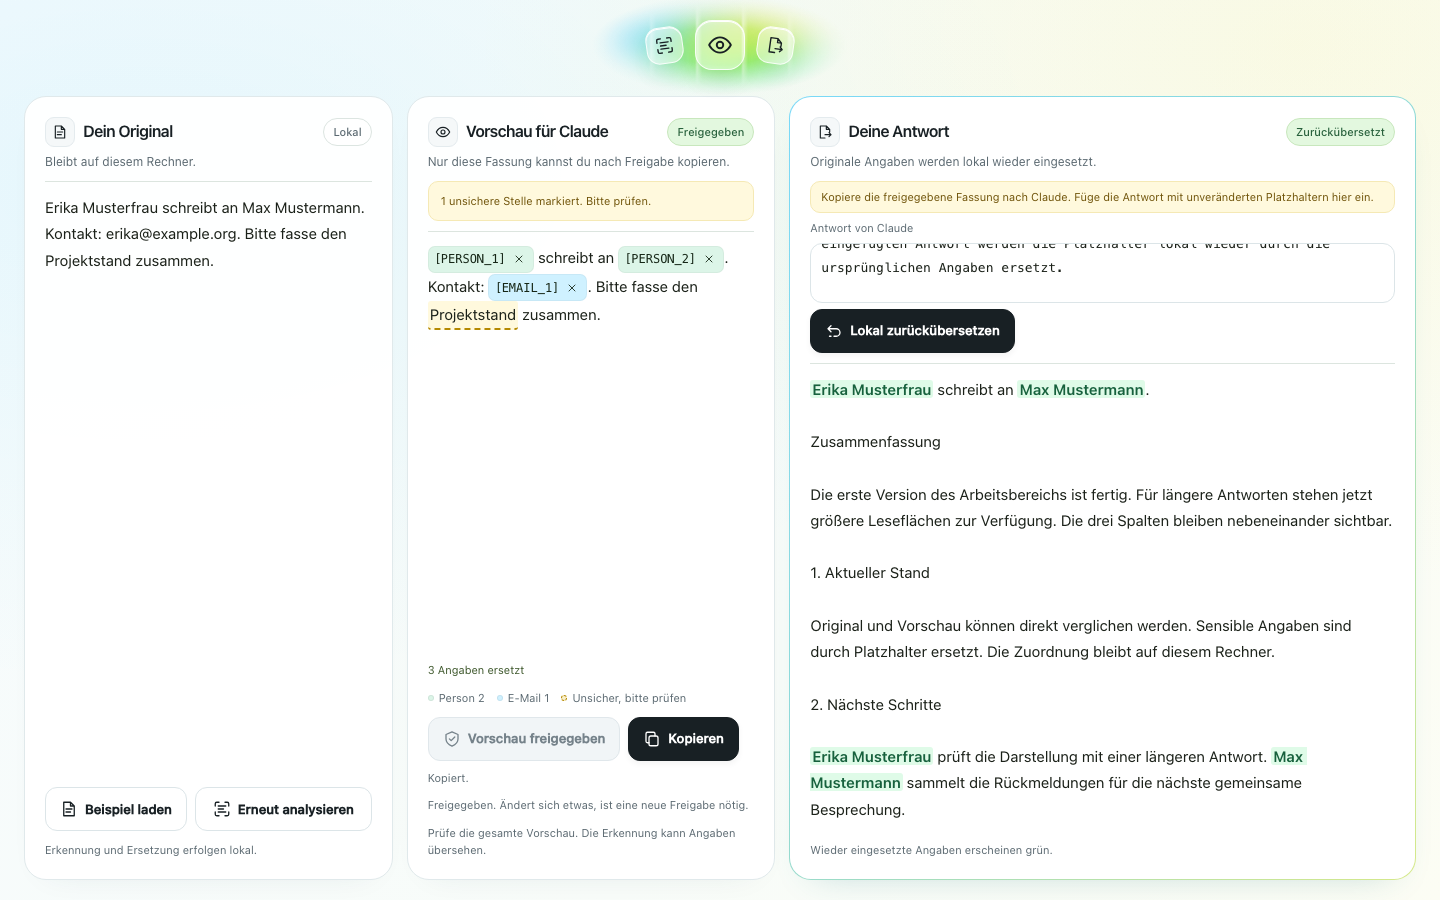
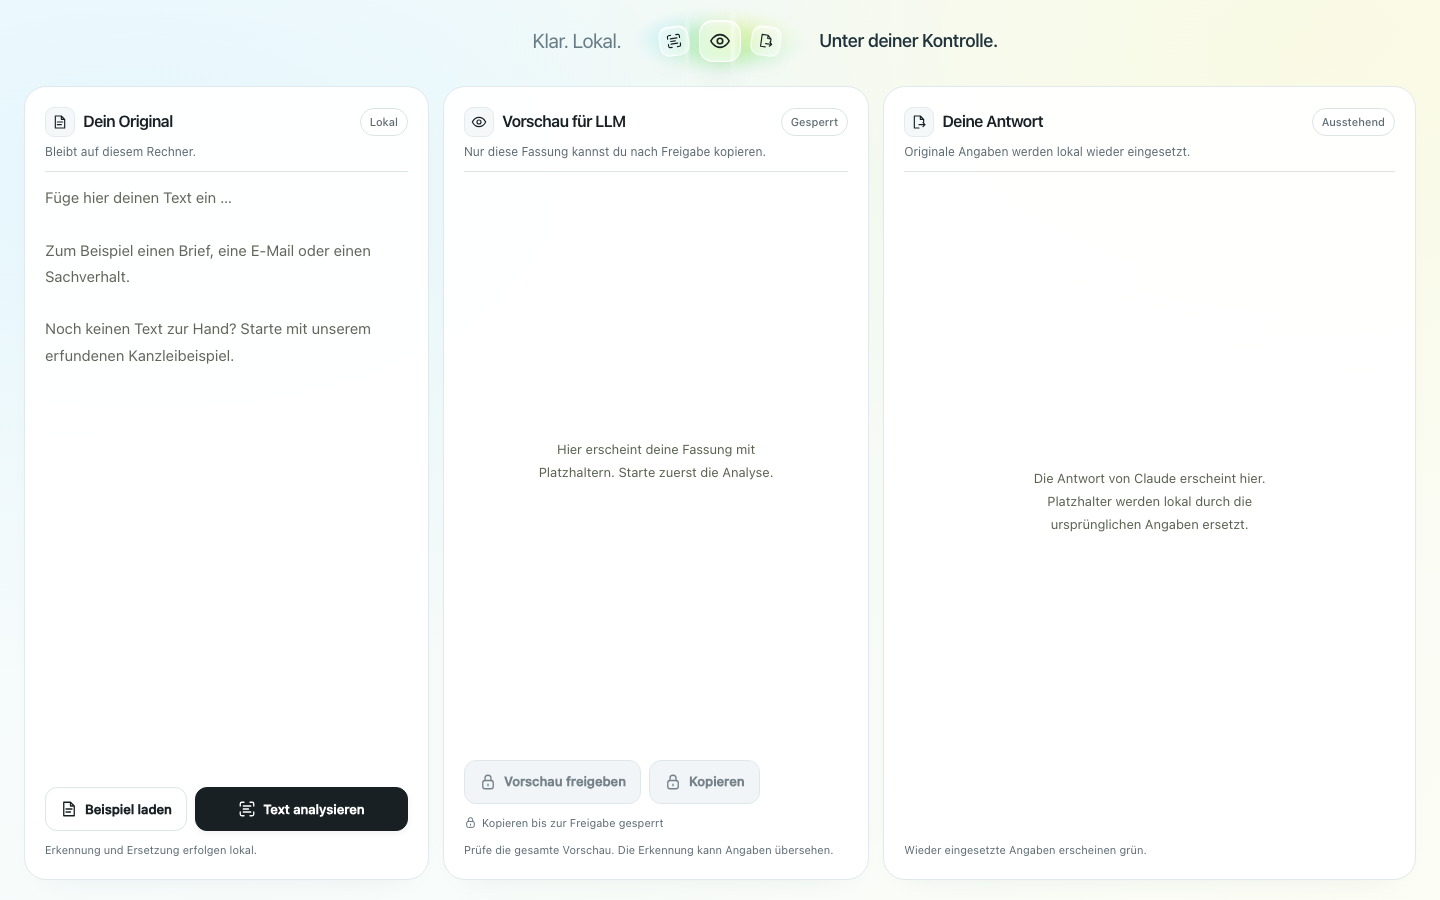
Apply approved frameless slogan and generalize LLM preview heading (#31)
* Record approved header work in team project status

* Add approved frameless slogan and general LLM preview heading

---------

diff --git a/web/static/index.html b/web/static/index.html
@@ -19,17 +19,19 @@
   .pane:focus-visible { outline: 3px solid #0076a9; outline-offset: -3px; }
   #fakeBand { background: #fff8d7; color: #70540a; font-size: 12px; font-weight: 600; text-align: center; padding: 6px 18px; border-bottom: 1px solid #f4e9b4; }
   .workspace { margin: 0 auto; padding: 10px 24px 20px; width: 100%; }
-  .intro { display: flex; justify-content: center; flex: none; padding: 0 0 16px; }
+  .intro { display: flex; align-items: center; justify-content: center; gap: 24px; flex: none; min-height: 76px; padding: 0 0 14px; }
+  .slogan { width: 190px; margin: 0; color: #20323b; font-size: 18px; font-weight: 550; letter-spacing: -.4px; }
+  .slogan-lead { text-align: right; color: #687c86; font-size: 20px; font-weight: 400; }
   .sr-only { position: absolute; width: 1px; height: 1px; padding: 0; margin: -1px; overflow: hidden; clip-path: inset(50%); white-space: nowrap; }
-  .hero-art { position: relative; isolation: isolate; display: flex; justify-content: center; align-items: center; gap: 12px; width: 220px; min-height: 70px; flex-shrink: 0; }
-  .hero-art::before { content: ""; z-index: -2; position: absolute; inset: -15px -18px; background: radial-gradient(ellipse at 68% 30%,#ffe53b99,transparent 45%), radial-gradient(ellipse at 52% 55%,#c6ff3d,transparent 53%), radial-gradient(ellipse at 25% 40%,#00b8ffb3,transparent 55%), radial-gradient(ellipse at 60% 70%,#2be0a0,transparent 60%); filter: blur(15px); mask-image: radial-gradient(ellipse closest-side,#000 40%,transparent); }
+  .hero-art { position: relative; isolation: isolate; display: flex; justify-content: center; align-items: center; gap: 10px; width: 150px; min-height: 54px; flex-shrink: 0; }
+  .hero-art::before { content: ""; z-index: -2; position: absolute; inset: -8px -15px; opacity: .5; background: radial-gradient(ellipse at 68% 30%,#ffe53b99,transparent 45%), radial-gradient(ellipse at 52% 55%,#c6ff3d,transparent 53%), radial-gradient(ellipse at 25% 40%,#00b8ffb3,transparent 55%), radial-gradient(ellipse at 60% 70%,#2be0a0,transparent 60%); filter: blur(15px); mask-image: radial-gradient(ellipse closest-side,#000 40%,transparent); }
   .hero-art::after { content: ""; z-index: -1; position: absolute; inset: -8px 0; background: repeating-linear-gradient(90deg,#fff0 0 39px,#ffffff78 41px,#fff0 46px); mask-image: radial-gradient(ellipse closest-side,#000 55%,transparent); }
   .art-icon { position: relative; z-index: 1; display: grid; place-items: center; background: #ffffff6e; border: 1px solid #ffffffd9; box-shadow: 0 14px 28px -10px #26534e30,inset 0 1px #fff; }
-  .art-icon.small { width: 37px; height: 37px; border-radius: 13px; transform: rotate(-8deg); }
-  .art-icon.large { width: 50px; height: 50px; border-radius: 17px; }
+  .art-icon.small { width: 30px; height: 30px; border-radius: 10px; transform: rotate(-8deg); }
+  .art-icon.large { width: 42px; height: 42px; border-radius: 14px; }
   .art-icon:nth-child(3) { transform: rotate(8deg); }
-  .art-icon .icon { width: 19px; height: 19px; }
-  .art-icon.large .icon { width: 26px; height: 26px; }
+  .art-icon .icon { width: 16px; height: 16px; }
+  .art-icon.large .icon { width: 22px; height: 22px; }
   main { display: grid; grid-template-columns: minmax(0,.95fr) minmax(0,1fr) minmax(0,1.25fr); align-items: stretch; gap: 14px; transition: grid-template-columns .25s cubic-bezier(.2,.7,.2,1); }
   main[data-focus="stepOriginal"] { grid-template-columns: minmax(0,1.7fr) minmax(0,1fr) minmax(0,1fr); }
   main[data-focus="stepReview"] { grid-template-columns: minmax(0,1fr) minmax(0,1.7fr) minmax(0,1fr); }
@@ -135,7 +137,7 @@
   @media (max-width: 860px) {
     .workspace { padding: 0 20px 22px; }
     .intro { padding-bottom: 12px; }
-    .hero-art { width: 190px; min-height: 60px; }
+    .hero-art { width: 150px; min-height: 54px; }
     main, main[data-focus] { grid-template-columns: minmax(0,1fr); height: auto; gap: 14px; }
     .work-card { min-height: 0; padding: 20px; }
     #original, .pane { min-height: 0; font-size: 16px; }
@@ -144,6 +146,15 @@
     #answer { min-height: 230px; max-height: 350px; }
     #answerInput { min-height: 85px; }
     #copyPanel { flex-shrink: 0; }
+  }
+  @media (max-width: 600px) {
+    .intro { min-height: 82px; gap: 6px; }
+    .slogan { width: 102px; font-size: 12px; letter-spacing: -.2px; }
+    .slogan-lead { width: 72px; font-size: 13px; }
+    .hero-art { width: 84px; gap: 5px; }
+    .art-icon.small { width: 20px; height: 20px; border-radius: 7px; }
+    .art-icon.large { width: 28px; height: 28px; border-radius: 9px; }
+    .art-icon.large .icon { width: 19px; height: 19px; }
   }
   @media (pointer: coarse) { .chip button { min-width: 44px; min-height: 44px; } }
   @media (prefers-reduced-motion: reduce) { * { transition: none !important; } }
@@ -154,11 +165,13 @@
 <div class="workspace">
   <div class="intro">
     <h1 class="sr-only">Text pseudonymisieren</h1>
+    <p class="slogan slogan-lead">Klar. Lokal.</p>
     <div class="hero-art" aria-hidden="true">
       <span class="art-icon small"><svg class="icon" aria-hidden="true" xmlns="http://www.w3.org/2000/svg" width="24" height="24" viewBox="0 0 24 24" fill="none" stroke="currentColor" stroke-width="1.75" stroke-linecap="round" stroke-linejoin="round"><path d="M8 3H5a2 2 0 0 0-2 2v3m13-5h3a2 2 0 0 1 2 2v3M3 16v3a2 2 0 0 0 2 2h3m13-5v3a2 2 0 0 1-2 2h-3M7 8h10M7 12h7M7 16h10"/></svg></span>
       <span class="art-icon large"><svg class="icon" aria-hidden="true" xmlns="http://www.w3.org/2000/svg" width="24" height="24" viewBox="0 0 24 24" fill="none" stroke="currentColor" stroke-width="1.75" stroke-linecap="round" stroke-linejoin="round"><path d="M2 12s3.5-7 10-7 10 7 10 7-3.5 7-10 7S2 12 2 12Z"/><circle cx="12" cy="12" r="3"/></svg></span>
       <span class="art-icon small"><svg class="icon" aria-hidden="true" xmlns="http://www.w3.org/2000/svg" width="24" height="24" viewBox="0 0 24 24" fill="none" stroke="currentColor" stroke-width="1.75" stroke-linecap="round" stroke-linejoin="round"><path d="M5 3h9l5 5v4M14 3v5h5M5 3v18h7m0-5h9m-3-3 3 3-3 3"/></svg></span>
     </div>
+    <p class="slogan">Unter deiner Kontrolle.</p>
   </div>
   <main id="workspace" aria-label="Dokument bearbeiten">
     <section class="work-card" data-step="stepOriginal" aria-labelledby="h-original">
@@ -172,7 +185,7 @@
       <p class="card-foot">Erkennung und Ersetzung erfolgen lokal.</p>
     </section>
     <section class="work-card review-card" data-step="stepReview" aria-labelledby="h-masked">
-      <div class="card-heading"><h2 id="h-masked"><svg class="icon" aria-hidden="true" xmlns="http://www.w3.org/2000/svg" width="24" height="24" viewBox="0 0 24 24" fill="none" stroke="currentColor" stroke-width="1.75" stroke-linecap="round" stroke-linejoin="round"><path d="M2 12s3.5-7 10-7 10 7 10 7-3.5 7-10 7S2 12 2 12Z"/><circle cx="12" cy="12" r="3"/></svg>Vorschau für Claude</h2><span id="releaseStatus" class="status-badge" role="status" aria-live="polite">Gesperrt</span></div>
+      <div class="card-heading"><h2 id="h-masked"><svg class="icon" aria-hidden="true" xmlns="http://www.w3.org/2000/svg" width="24" height="24" viewBox="0 0 24 24" fill="none" stroke="currentColor" stroke-width="1.75" stroke-linecap="round" stroke-linejoin="round"><path d="M2 12s3.5-7 10-7 10 7 10 7-3.5 7-10 7S2 12 2 12Z"/><circle cx="12" cy="12" r="3"/></svg>Vorschau für LLM</h2><span id="releaseStatus" class="status-badge" role="status" aria-live="polite">Gesperrt</span></div>
       <p class="card-subtitle">Nur diese Fassung kannst du nach Freigabe kopieren.</p>
       <div id="notes" class="stack" aria-live="polite"></div>
       <div class="scroll-frame"><div id="masked" class="pane" tabindex="-1" aria-labelledby="h-masked"></div></div>

diff --git a/web/README.md b/web/README.md
@@ -14,9 +14,9 @@ Danach http://127.0.0.1:8000 öffnen. Das erste Analysieren lädt das Modell und
 
 ## Arbeitsoberfläche
 
-Layout A ist direkt in `web/static/index.html` eingebaut: drei flexible Spalten mit hellen Arbeitsflächen und einem feinen Farbrand. Auf dem Desktop wird die genutzte Spalte durch Hover, Klick oder Tastaturfokus breiter. Beim Schreiben in einem Eingabefeld und bei markiertem Text ist der Hoverwechsel ausgesetzt. Auf Mobilgeräten bleiben die Bereiche untereinander. Das Glasmotiv ist klein und mittig; die äußere Kopfzeile, Schrittleiste und der Footer sind entfernt. Die Legende erklärt erkannte Datentypen und markierte unsichere Stellen. Die Oberfläche verwendet den echten Kern, sofern sie nicht ausdrücklich mit `HARNESS_FAKE=1` gestartet wird.
+Layout A ist direkt in `web/static/index.html` eingebaut: drei flexible Spalten mit hellen Arbeitsflächen und einem feinen Farbrand. Auf dem Desktop wird die genutzte Spalte durch Hover, Klick oder Tastaturfokus breiter. Beim Schreiben in einem Eingabefeld und bei markiertem Text ist der Hoverwechsel ausgesetzt. Auf Mobilgeräten bleiben die Bereiche untereinander. Das Glasmotiv steht zwischen „Klar. Lokal.“ und „Unter deiner Kontrolle.“ frei ohne äußeren Rahmen. Die mittlere Spalte heißt „Vorschau für LLM“. Das Motiv ist klein und mittig; die äußere Kopfzeile, Schrittleiste und der Footer sind entfernt. Die Legende erklärt erkannte Datentypen und markierte unsichere Stellen. Die Oberfläche verwendet den echten Kern, sofern sie nicht ausdrücklich mit `HARNESS_FAKE=1` gestartet wird.
 
-![Arbeitsoberfläche mit echter lokaler Pseudonymisierung und erfundenen Beispieldaten](assets/arbeitsoberflaeche-material-c.png)
+![Arbeitsoberfläche mit flexiblen Spalten und dem gewählten Slogan](assets/arbeitsoberflaeche-material-c.png)
 
 ## UI prüfen
 

diff --git a/PROJEKTSTAND.md b/PROJEKTSTAND.md
@@ -43,6 +43,8 @@ Beide:
 
 **Erledigt**
 
+- [x] Gewählte Kopfvariante B2 ohne Rahmen eingebaut: „Klar. Lokal.“ links, „Unter deiner Kontrolle.“ rechts vom Motiv. Mittlere Spalte auf Locs Wunsch allgemein „Vorschau für LLM“. Bestehende Browserprüfung bestanden, Desktop und Mobil visuell geprüft. Nur Oberfläche, Freigabeablauf unverändert; Branch `codex/slogan-ohne-rahmen` (`lxc-ht`, Codex UI).
+
 - [x] PDF laden: Text aus digitalen PDFs lokal im Speicher auslesen und ins Textfeld setzen, per Knopf oder Ziehen; Scans werden gemeldet, nicht gelesen ([PR #30](https://github.com/lxc-ht/LP7/pull/30), `lxc-ht`, Claude). Wartet auf Pauls Review, noch nicht gemergt. Vortragsrechner danach einmal mit Netz starten, damit uv `pypdf` lädt.
 - [x] Layout A umgesetzt: drei flexible Arbeitsbereiche per Hover, Klick und Tastatur; stabil beim Schreiben und Markieren. Äußere Kopfzeile, Schrittleiste und Footer entfernt, kleines Glasmotiv mittig. Browserprüfung mit fünf Breiten, Touch und reduzierter Bewegung sowie Durchlauf mit echtem Kern bestanden. Bestehende Formular-IDs und Freigabeablauf erhalten; IDs der ausdrücklich entfernten Leisten entfallen. Branch `codex/flexible-arbeitsbereiche` (`lxc-ht`, Codex UI).
 
